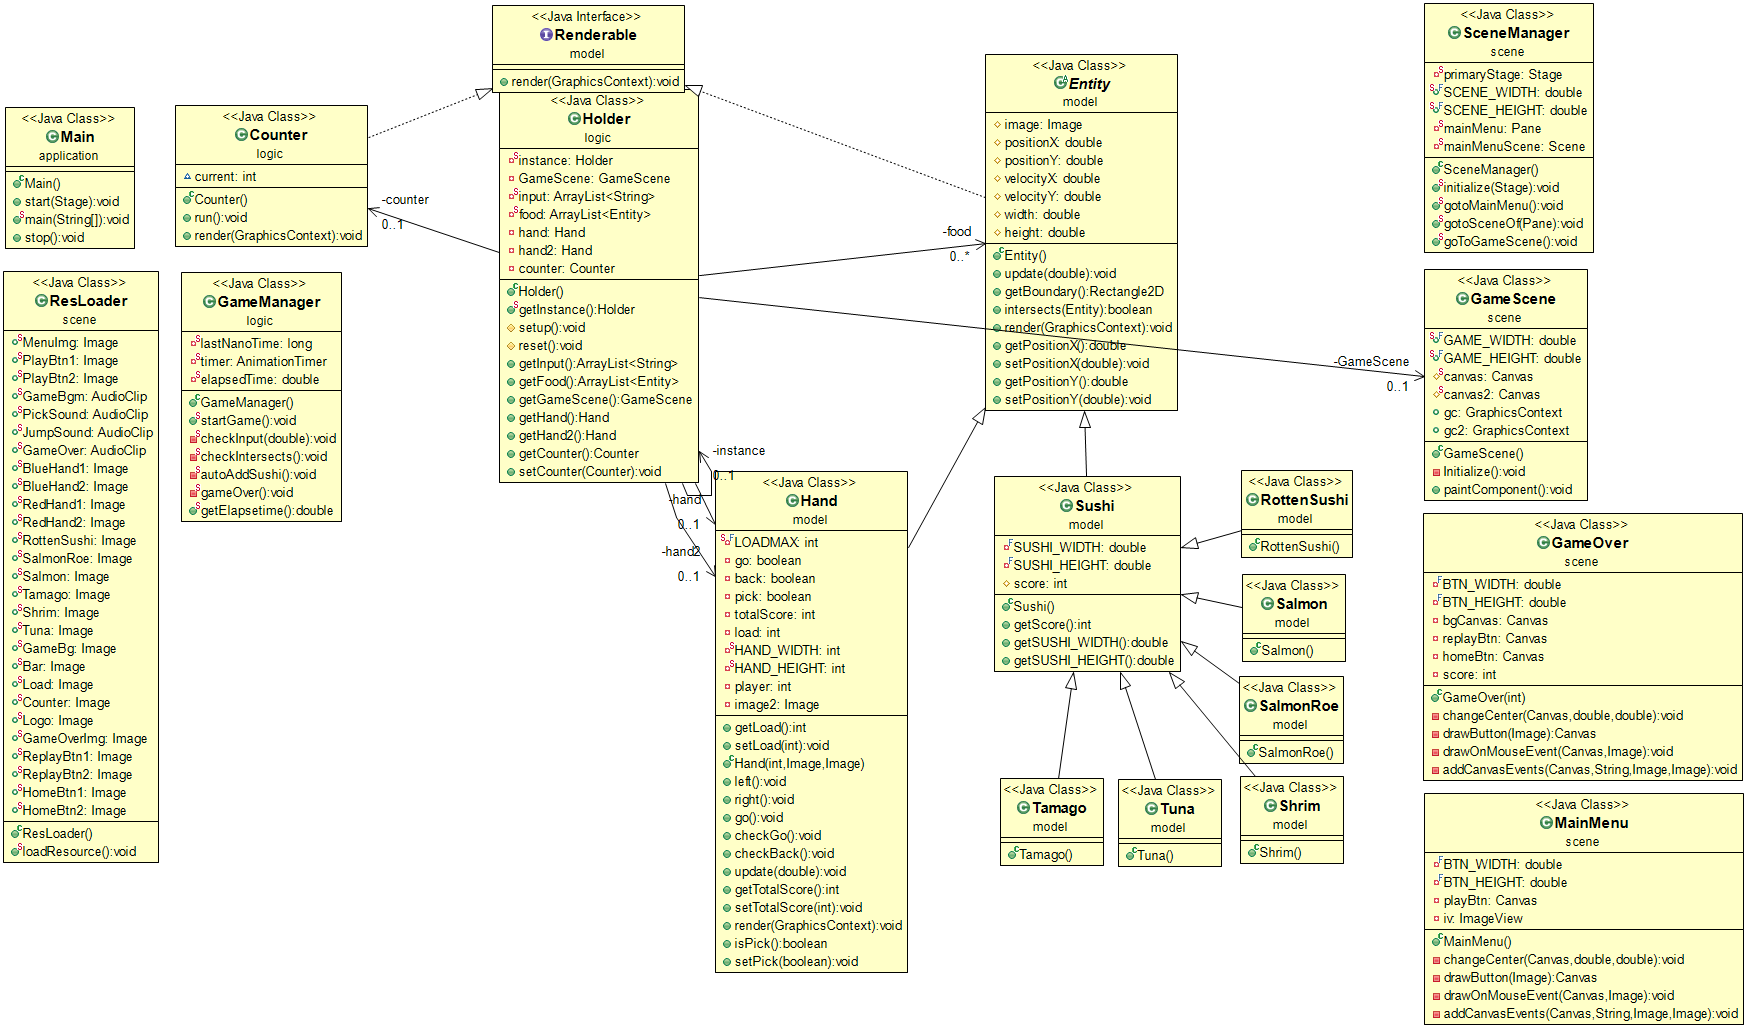
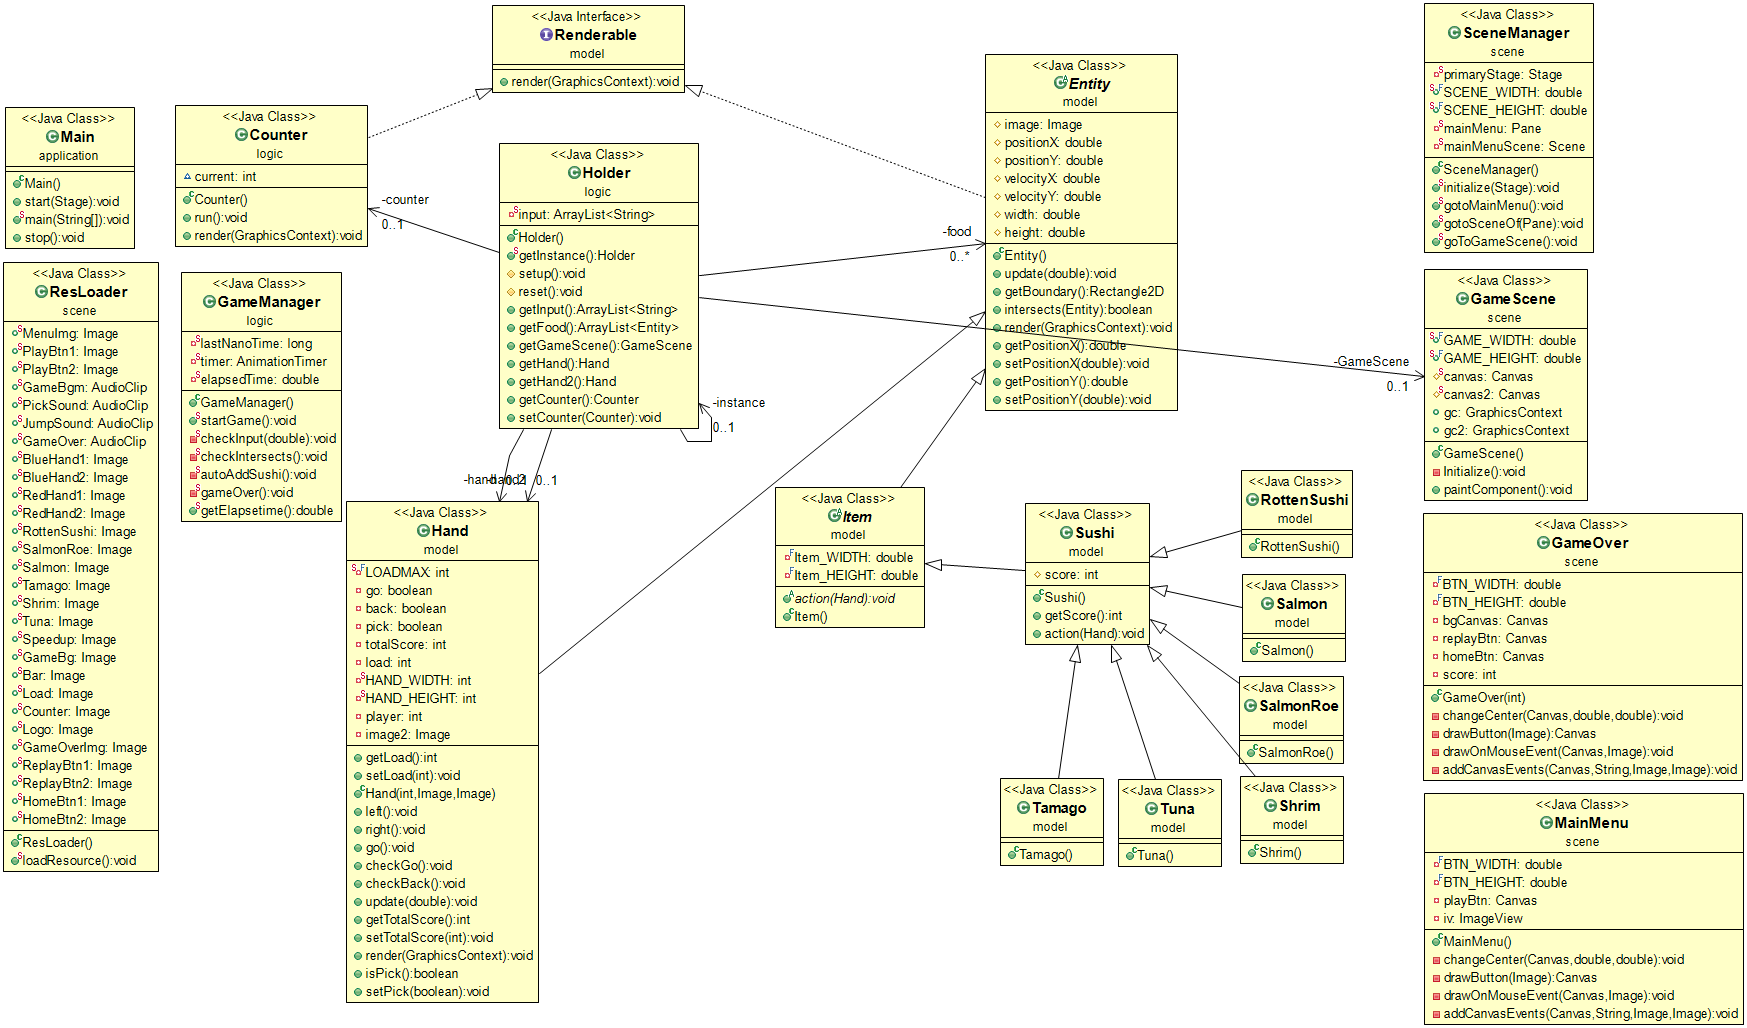
add Item class

Changed region(s): [[0.1855, 0.0934, 0.68, 0.9961], [0.0, 0.249, 0.0927, 0.8716]]

diff --git a/src/logic/GameManager.java b/src/logic/GameManager.java
@@ -115,8 +115,7 @@ public class GameManager {
             	
             	if(obj instanceof Sushi ){
 	            	Sushi sushi = (Sushi) obj;
-	            	Holder.getInstance().getHand().setTotalScore(
-	            			Holder.getInstance().getHand().getTotalScore() + sushi.getScore());
+	            	sushi.action(Holder.getInstance().getHand());	            	
 	            	foodIter.remove(); 
             	}                      
             }
@@ -132,9 +131,8 @@ public class GameManager {
             	}*/
             	
             	if(obj instanceof Sushi ) {
-	            	Sushi sushi = (Sushi) obj;
-	            	Holder.getInstance().getHand2().setTotalScore(
-	            			Holder.getInstance().getHand2().getTotalScore() + sushi.getScore());
+            		Sushi sushi = (Sushi) obj;
+	            	sushi.action(Holder.getInstance().getHand2());
 	            	foodIter.remove(); 
             	}                      
             }

diff --git a/src/model/Sushi.java b/src/model/Sushi.java
@@ -2,32 +2,18 @@ package model;
 
 import scene.ResLoader;
 
-public class Sushi extends Entity {
+public class Sushi extends Item {
 	
-	private final double SUSHI_WIDTH = 100;
-	private final double SUSHI_HEIGHT = 100;
-	
-	protected int score;
-	
-	public Sushi() {
-		this.positionX = 900;
-		this.positionY = 200;
-		this.velocityX = -200;
-		this.velocityY = 0;
-		this.width = SUSHI_WIDTH;
-	    this.height = SUSHI_HEIGHT;  	    
-	}
+	protected int score;	
 
 	public int getScore() {
 		return score;
 	}
 
-	public double getSUSHI_WIDTH() {
-		return SUSHI_WIDTH;
-	}
-
-	public double getSUSHI_HEIGHT() {
-		return SUSHI_HEIGHT;
+	@Override
+	public void action(Hand hand) {
+		// TODO Auto-generated method stub
+		hand.setTotalScore(hand.getTotalScore()+score);	
 	}
 	
 	

diff --git a/src/model/Item.java b/src/model/Item.java
@@ -1,0 +1,15 @@
+package model;
+
+public abstract class Item extends Entity{
+	public abstract void action(Hand hand);	
+	private final double Item_WIDTH = 100;
+	private final double Item_HEIGHT = 100;	
+	public Item() {
+		this.positionX = 900;
+		this.positionY = 200;
+		this.velocityX = -200;
+		this.velocityY = 0;
+		this.width = Item_WIDTH;
+	    this.height = Item_HEIGHT;  	    
+	}
+}
